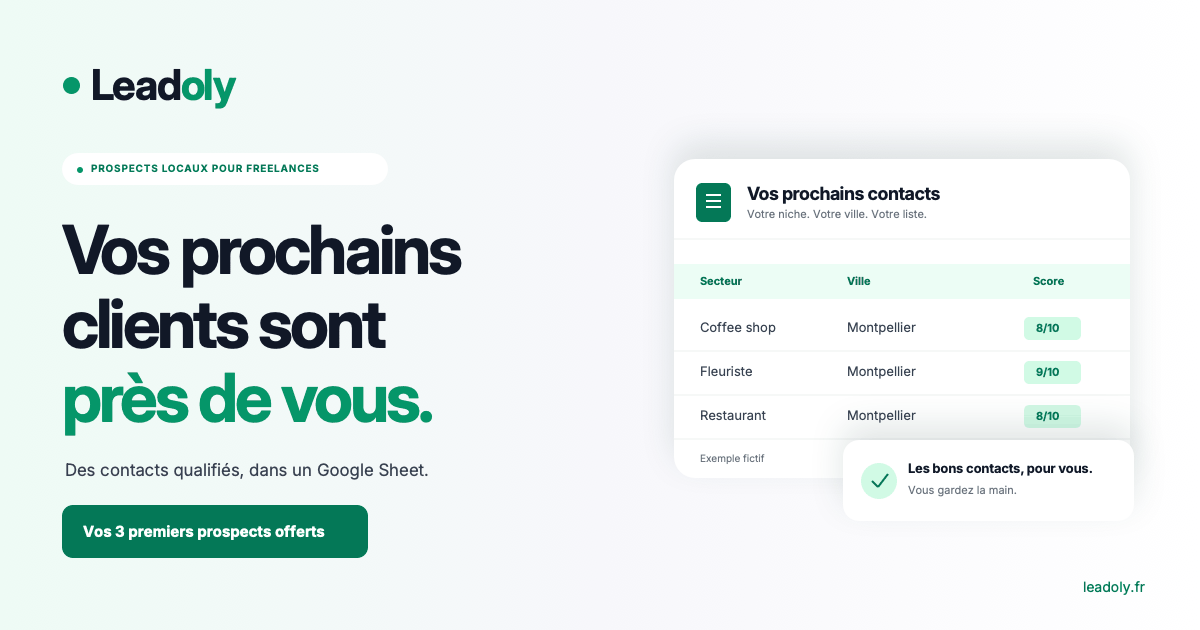
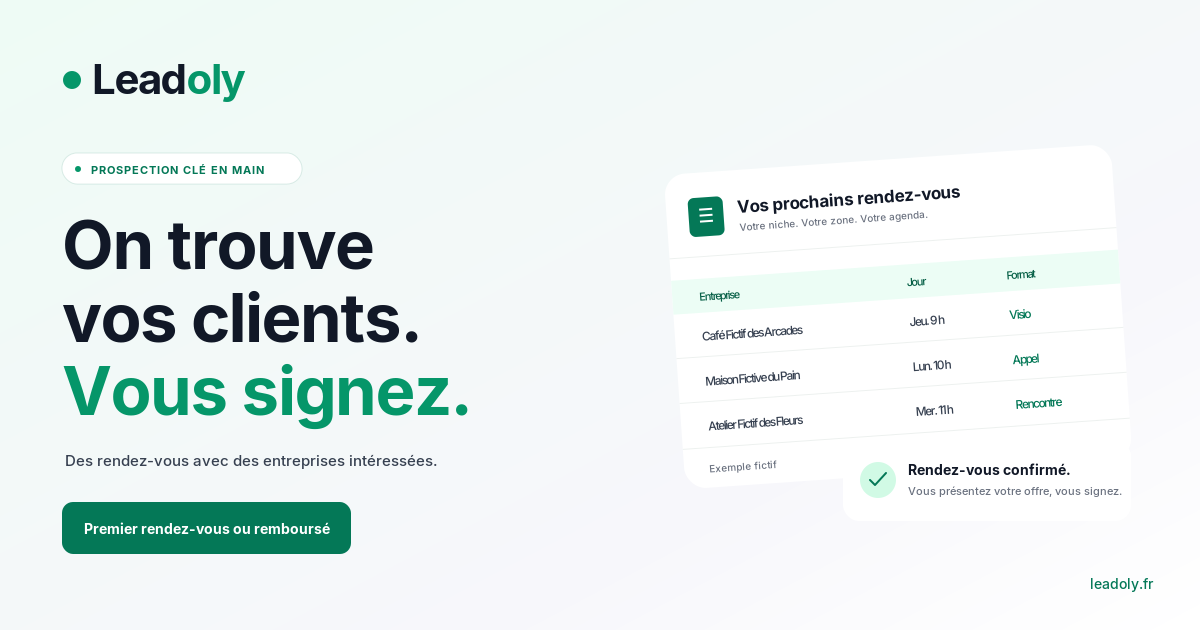
Recentrage sur la prospection clé en main : nav, OG, phrases

diff --git a/index.html b/index.html
@@ -26,12 +26,12 @@
   <meta property="og:image:width" content="1200">
   <meta property="og:image:height" content="630">
   <meta property="og:image:type" content="image/png">
-  <meta property="og:image:alt" content="Leadoly. Vos prochains clients sont près de vous. Des prospects locaux, qualifiés et livrés dans un Google Sheet.">
+  <meta property="og:image:alt" content="Leadoly. On trouve vos clients, vous signez. Des rendez-vous avec des entreprises intéressées.">
   <meta name="twitter:card" content="summary_large_image">
   <meta name="twitter:title" content="Leadoly — On trouve vos clients, vous signez">
   <meta name="twitter:description" content="Freelances et coachs : Leadoly contacte les entreprises de votre niche et vous obtient des rendez-vous. Premier rendez-vous ou remboursé.">
   <meta name="twitter:image" content="https://leadoly.fr/assets/og-image.png">
-  <meta name="twitter:image:alt" content="Leadoly. Vos prochains clients sont près de vous.">
+  <meta name="twitter:image:alt" content="Leadoly. On trouve vos clients, vous signez.">
   <script type="application/ld+json">
 {
   "@context": "https://schema.org",
@@ -52,7 +52,7 @@
       },
       "image": "https://leadoly.fr/assets/og-image.png",
       "email": "sebastien.kothe.pro@gmail.com",
-      "slogan": "Les bons contacts, près de vous.",
+      "slogan": "On trouve vos clients, vous signez.",
       "description": "Leadoly cherche des clients pour les freelances et les coachs : nous contactons les entreprises de leur niche et leur obtenons des rendez-vous. Ils n’ont plus qu’à présenter leur offre et signer. En option, des listes exclusives de prospects locaux qualifiés.",
       "areaServed": {
         "@type": "Country",
@@ -197,11 +197,11 @@
   <header class="site-header">
     <div class="header-inner container">
       <a class="brand" href="#accueil" aria-label="Leadoly, accueil"><span class="brand-dot" aria-hidden="true"></span><span>Lead<span class="brand-accent">oly</span></span></a>
-      <nav class="desktop-nav" aria-label="Navigation principale"><a href="#premium">Clé en main</a><a href="#fiche">Les listes</a><a href="#pour-qui">Pour qui</a><a href="#comment">Comment ça marche</a><a href="#engagements">Nos engagements</a><a href="#faq">FAQ</a><a href="#contact-premium">Contact</a></nav>
+      <nav class="desktop-nav" aria-label="Navigation principale"><a href="#premium">Clé en main</a><a href="#premium-how-title">Comment ça marche</a><a href="#premium-guarantee-title">Garantie</a><a href="#faq">FAQ</a><a href="#contact-premium">Contact</a></nav>
       <a class="button button-small header-cta" href="#contact-premium">Trouver des clients<svg class="icon" aria-hidden="true"><use href="#i-arrow"/></svg></a>
       <button class="menu-toggle" type="button" aria-label="Ouvrir le menu" aria-controls="mobile-menu" aria-expanded="false" hidden><span></span><span></span></button>
     </div>
-    <nav class="mobile-menu container" id="mobile-menu" aria-label="Navigation mobile"><a href="#premium">Prospection clé en main<svg class="icon" aria-hidden="true"><use href="#i-arrow"/></svg></a><a href="#fiche">Les listes<svg class="icon" aria-hidden="true"><use href="#i-arrow"/></svg></a><a href="#pour-qui">Pour qui<svg class="icon" aria-hidden="true"><use href="#i-arrow"/></svg></a><a href="#comment">Comment ça marche<svg class="icon" aria-hidden="true"><use href="#i-arrow"/></svg></a><a href="#engagements">Nos engagements<svg class="icon" aria-hidden="true"><use href="#i-arrow"/></svg></a><a href="#faq">FAQ<svg class="icon" aria-hidden="true"><use href="#i-arrow"/></svg></a><a href="#contact-premium">Contact<svg class="icon" aria-hidden="true"><use href="#i-arrow"/></svg></a><a class="button" href="#contact-premium">Trouver des clients</a></nav>
+    <nav class="mobile-menu container" id="mobile-menu" aria-label="Navigation mobile"><a href="#premium">Prospection clé en main<svg class="icon" aria-hidden="true"><use href="#i-arrow"/></svg></a><a href="#premium-how-title">Comment ça marche<svg class="icon" aria-hidden="true"><use href="#i-arrow"/></svg></a><a href="#premium-guarantee-title">Garantie<svg class="icon" aria-hidden="true"><use href="#i-arrow"/></svg></a><a href="#faq">FAQ<svg class="icon" aria-hidden="true"><use href="#i-arrow"/></svg></a><a href="#contact-premium">Contact<svg class="icon" aria-hidden="true"><use href="#i-arrow"/></svg></a><a class="button" href="#contact-premium">Trouver des clients</a></nav>
   </header>
   <main id="contenu" tabindex="-1">
     <section class="hero" id="accueil" aria-labelledby="hero-title">
@@ -210,7 +210,7 @@
         <div class="hero-copy">
           <p class="eyebrow pill"><span class="status-dot" aria-hidden="true"></span>PROSPECTION CLÉ EN MAIN</p>
           <h1 id="hero-title">Vous cherchez <br> des clients ? <br> <span>On s’en charge.</span></h1>
-          <p class="hero-description">Leadoly cherche vraiment des clients pour vous. Nous contactons les entreprises de votre niche et de votre zone, et nous vous obtenons <strong>des rendez-vous avec celles qui sont intéressées</strong>. Vous présentez votre offre et vous signez.</p>
+          <p class="hero-description">Leadoly cherche des clients pour vous. Nous contactons les entreprises de votre niche et de votre zone, et nous vous obtenons <strong>des rendez-vous avec celles qui sont intéressées</strong>. Vous présentez votre offre et vous signez.</p>
           <p class="hero-audience">Pour les freelances et les coachs <br class="desktop-break"> qui cherchent des clients.</p>
           <div class="hero-actions"><a class="button" href="#premium">Découvrir la prospection clé en main<svg class="icon" aria-hidden="true"><use href="#i-arrow"/></svg></a></div>
           <p class="hero-note"><svg class="icon" aria-hidden="true"><use href="#i-clock"/></svg>Vous gardez la négociation et la signature.</p>
@@ -260,7 +260,7 @@
           <div class="premium-copy reveal">
             <p class="eyebrow"><span class="status-dot" aria-hidden="true"></span>PROSPECTION CLÉ EN MAIN · NOTRE OFFRE PRINCIPALE</p>
             <h2 id="premium-title">On cherche vos clients. <br> <span>Vous signez.</span></h2>
-            <p class="premium-lead">Vous cherchez des clients ? On peut vous en trouver. Leadoly ne vous livre pas un fichier de plus : nous écrivons aux entreprises de votre niche, nous relançons, nous répondons à leurs questions et nous vous obtenons des rendez-vous avec celles qui sont intéressées.</p>
+            <p class="premium-lead">Vous cherchez des clients ? On peut vous en trouver. Nous écrivons aux entreprises de votre niche, nous relançons, nous répondons à leurs questions et nous vous obtenons des rendez-vous avec celles qui sont intéressées.</p>
             <ul class="premium-results">
               <li><span class="premium-result-icon"><svg class="icon" aria-hidden="true"><use href="#i-contact"/></svg></span><span><b>Des rendez-vous, pas une liste</b><small>Chaque rendez-vous calé vous arrive avec la fiche de l’entreprise.</small></span></li>
               <li><span class="premium-result-icon"><svg class="icon" aria-hidden="true"><use href="#i-clock"/></svg></span><span><b>Du temps rendu à votre métier</b><small>Plus de soirées à chercher des contacts et à relancer.</small></span></li>
@@ -308,7 +308,7 @@
           <aside class="premium-cta reveal" id="contact-premium" aria-labelledby="premium-cta-title">
             <p class="premium-cta-eyebrow">Tarif sur demande</p>
             <h3 id="premium-cta-title">Parlons de vos futurs clients.</h3>
-            <p>Dites-nous votre métier, vos clients idéaux et votre zone. Le tarif, adapté à votre projet, vous est détaillé par écrit avant tout engagement. Pour bien faire le travail, Leadoly accompagne peu de freelances à la fois.</p>
+            <p>Dites-nous votre métier, vos clients idéaux et votre zone. Le tarif, adapté à votre projet, vous est détaillé par écrit avant tout engagement.</p>
             <a class="button premium-cta-button" href="mailto:sebastien.kothe.pro@gmail.com?subject=Prospection%20cl%C3%A9%20en%20main%20Leadoly&amp;body=Bonjour%20S%C3%A9bastien%2C%0D%0A%0D%0AJe%20cherche%20des%20clients.%0D%0AMon%20m%C3%A9tier%20%3A%20%0D%0AMes%20clients%20id%C3%A9aux%20%3A%20%0D%0AMa%20zone%20%3A%20%0D%0A">Parler de mes futurs clients<svg class="icon" aria-hidden="true"><use href="#i-arrow"/></svg></a>
             <p class="premium-cta-mail">Ou écrivez à <a href="mailto:sebastien.kothe.pro@gmail.com">sebastien.kothe.pro@gmail.com</a></p>
             <p class="premium-honest"><svg class="icon" aria-hidden="true"><use href="#i-shield"/></svg><span>Premier rendez-vous ou remboursé, sur la première vague.</span></p>
@@ -345,7 +345,7 @@
     </section>
     <section class="audience-section section-pad" id="pour-qui" aria-labelledby="audience-title">
       <div class="container">
-        <div class="section-heading reveal"><div><p class="eyebrow"><span class="status-dot" aria-hidden="true"></span>POUR QUI</p><h2 id="audience-title">Votre métier. <br><span>Les bons prospects.</span></h2></div><p>Des commerces près de vous. <br>Un besoin auquel votre talent répond.</p></div>
+        <div class="section-heading reveal"><div><p class="eyebrow"><span class="status-dot" aria-hidden="true"></span>POUR QUI</p><h2 id="audience-title">Votre métier. <br><span>Les bons prospects.</span></h2></div><p>Un besoin auquel votre talent répond.</p></div>
         <div class="audience-grid">
           <article class="audience-card reveal"><span class="audience-icon"><svg class="icon" aria-hidden="true"><use href="#i-activity"/></svg></span><h3>Community manager</h3><p>Des commerces peu actifs sur les réseaux, avec une présence sociale à développer.</p><span class="audience-examples">Restaurants · boutiques · salons</span></article>
           <article class="audience-card reveal"><span class="audience-icon"><svg class="icon" aria-hidden="true"><use href="#i-globe"/></svg></span><h3>Web designer</h3><p>Des TPE sans site ou avec un site daté, qui gagneraient à soigner leur vitrine en ligne.</p><span class="audience-examples">Commerces · artisans · TPE</span></article>
@@ -377,10 +377,10 @@
         </div>
       </div>
     </section>
-    <section class="sample-section section-pad" id="echantillon" aria-labelledby="sample-title"><div class="container sample-layout"><div class="sample-copy reveal"><p class="eyebrow"><span class="status-dot" aria-hidden="true"></span>VOS PROCHAINS CONTACTS COMMENCENT ICI</p><h2 id="sample-title">Recevez <span class="sample-three">3 prospects</span> de votre niche, <br> <span>gratuitement.</span></h2><p class="section-lead">Dites-nous qui vous cherchez et où. <br> On s’occupe de trouver les premiers contacts.</p><div class="sample-details"><p><span class="detail-icon"><svg class="icon" aria-hidden="true"><use href="#i-clock"/></svg></span><span><b>Sous 48 h</b><small>Votre sélection arrive par e-mail.</small></span></p><p><span class="detail-icon"><svg class="icon" aria-hidden="true"><use href="#i-sheet"/></svg></span><span><b>Du concret, dans un Google Sheet</b><small>Des fiches enrichies, prêtes à explorer.</small></span></p><p><span class="detail-icon"><svg class="icon" aria-hidden="true"><use href="#i-cursor"/></svg></span><span><b>Vous décidez de la suite</b><small>Découvrez les fiches avant de commander.</small></span></p></div><div class="direct-contact"><span>Une question avant de commencer ?</span><a href="mailto:sebastien.kothe.pro@gmail.com">sebastien.kothe.pro@gmail.com<svg class="icon" aria-hidden="true"><use href="#i-arrow"/></svg></a></div></div>
+    <section class="sample-section section-pad" id="echantillon" aria-labelledby="sample-title"><div class="container sample-layout"><div class="sample-copy reveal"><p class="eyebrow"><span class="status-dot" aria-hidden="true"></span>ESSAI GRATUIT AVANT LA PROSPECTION CLÉ EN MAIN</p><h2 id="sample-title">Recevez <span class="sample-three">3 prospects</span> de votre niche, <br> <span>gratuitement.</span></h2><p class="section-lead">Dites-nous qui vous cherchez et où. <br> On s’occupe de trouver les premiers contacts.</p><div class="sample-details"><p><span class="detail-icon"><svg class="icon" aria-hidden="true"><use href="#i-clock"/></svg></span><span><b>Sous 48 h</b><small>Votre sélection arrive par e-mail.</small></span></p><p><span class="detail-icon"><svg class="icon" aria-hidden="true"><use href="#i-sheet"/></svg></span><span><b>Du concret, dans un Google Sheet</b><small>Des fiches enrichies, prêtes à explorer.</small></span></p><p><span class="detail-icon"><svg class="icon" aria-hidden="true"><use href="#i-cursor"/></svg></span><span><b>Vous décidez de la suite</b><small>Jugez la qualité avant de lancer la prospection.</small></span></p></div><div class="direct-contact"><span>Une question avant de commencer ?</span><a href="mailto:sebastien.kothe.pro@gmail.com">sebastien.kothe.pro@gmail.com<svg class="icon" aria-hidden="true"><use href="#i-arrow"/></svg></a></div></div>
       <form class="sample-form reveal" id="sample-form" action="mailto:sebastien.kothe.pro@gmail.com" method="post" enctype="text/plain" aria-labelledby="form-title"><div class="form-heading"><span class="form-icon"><svg class="icon" aria-hidden="true"><use href="#i-spark"/></svg></span><div><h3 id="form-title">Parlons de votre recherche.</h3><p>Tous les champs sont nécessaires.</p></div></div><div class="form-fields"><div class="form-row"><div class="form-field"><label for="first-name">Prénom</label><input id="first-name" name="Prénom" autocomplete="given-name" required maxlength="80" placeholder="Votre prénom" aria-describedby="first-name-error"><span class="field-error" id="first-name-error"></span></div><div class="form-field"><label for="email">E-mail professionnel</label><input id="email" name="E-mail" type="email" autocomplete="email" required maxlength="254" placeholder="vous@exemple.fr" aria-describedby="email-error"><span class="field-error" id="email-error"></span></div></div><div class="form-field"><label for="profession">Votre métier</label><div class="select-wrap"><select id="profession" name="Métier" autocomplete="organization-title" required aria-describedby="profession-error"><option value="" disabled selected>Sélectionnez votre métier</option><option>Community manager</option><option>Web designer</option><option>Photographe</option><option>Vidéaste</option><option>Autre</option></select><svg viewBox="0 0 24 24" class="icon" aria-hidden="true"><path d="m7 9 5 5 5-5"/></svg></div><span class="field-error" id="profession-error"></span></div><div class="form-field"><label for="niche">Les commerces que vous ciblez</label><input id="niche" name="Niche" autocomplete="off" required maxlength="160" placeholder="Ex. : restaurants, coiffeurs, fleuristes…" aria-describedby="niche-error"><span class="field-error" id="niche-error"></span></div><div class="form-field"><label for="city">Votre ville de prospection</label><input id="city" name="Ville" autocomplete="address-level2" required maxlength="120" placeholder="Ex. : Montpellier" aria-describedby="city-error"><span class="field-error" id="city-error"></span></div></div><button class="button form-submit" type="submit">Recevoir mes 3 prospects gratuits<svg class="icon" aria-hidden="true"><use href="#i-arrow"/></svg></button><p class="form-note"><svg class="icon" aria-hidden="true"><use href="#i-lock"/></svg><span>Votre messagerie s’ouvre avec la demande pré-remplie. Vos informations ne servent qu’à vous répondre.</span></p><p id="form-status" class="form-status" role="status" aria-live="polite"></p><a class="mailto-fallback" id="mailto-fallback" href="mailto:sebastien.kothe.pro@gmail.com" hidden>Ouvrir à nouveau ma messagerie<svg class="icon" aria-hidden="true"><use href="#i-arrow"/></svg></a></form>
     </div></section>
   </main>
-  <footer class="site-footer"><div class="container"><div class="footer-top"><div><a class="brand" href="#accueil" aria-label="Leadoly, retour à l’accueil"><span class="brand-dot" aria-hidden="true"></span><span>Lead<span class="brand-accent">oly</span></span></a><p>Les bons contacts. La relation vous appartient.</p></div><a class="back-top" href="#accueil">Retour en haut<svg class="icon" aria-hidden="true"><use href="#i-arrow"/></svg></a></div><div class="footer-bottom"><span>© 2026 Leadoly</span><a href="mailto:sebastien.kothe.pro@gmail.com">sebastien.kothe.pro@gmail.com</a><a href="#mentions" id="legal-link">Mentions légales</a><span class="footer-privacy"><span class="status-dot" aria-hidden="true"></span>Sans cookies. Tout simplement.</span></div><section class="legal-section" id="mentions" aria-labelledby="legal-title"><div class="legal-heading"><h2 id="legal-title" tabindex="-1">Mentions légales</h2><button type="button" class="legal-close" hidden aria-label="Fermer les mentions légales">Fermer <span aria-hidden="true">×</span></button></div><p>Éditeur : Sébastien Kothé, entrepreneur individuel (Leadoly). SIREN : 810 034 686. Adresse : 2 Avenue Del Bosch, 66130 Ille-sur-Têt, France. Contact : <a href="mailto:sebastien.kothe.pro@gmail.com">sebastien.kothe.pro@gmail.com</a>.</p><p>Directeur de la publication : Sébastien Kothé.</p><p>Hébergeur : GitHub, Inc. (service GitHub Pages), 88 Colin P. Kelly Jr. Street, San Francisco, CA 94107, États-Unis.</p><p>Données personnelles : ce site ne dépose aucun cookie. La mesure d’audience est assurée par GoatCounter, de façon anonyme, sans cookie et sans collecte de donnée personnelle ; les statistiques sont hébergées par GoatCounter (goatcounter.com). Les informations saisies dans le formulaire ne sont transmises que par votre propre messagerie ; elles servent uniquement à répondre à votre demande. Responsable du traitement : Sébastien Kothé. Vous pouvez exercer vos droits d’accès, de rectification et d’effacement en écrivant à <a href="mailto:sebastien.kothe.pro@gmail.com">sebastien.kothe.pro@gmail.com</a> et adresser une réclamation à la CNIL. Police Inter (<a href="assets/fonts/OFL.txt">SIL Open Font License</a>).</p></section></div></footer>
+  <footer class="site-footer"><div class="container"><div class="footer-top"><div><a class="brand" href="#accueil" aria-label="Leadoly, retour à l’accueil"><span class="brand-dot" aria-hidden="true"></span><span>Lead<span class="brand-accent">oly</span></span></a><p>On trouve vos clients. Vous signez.</p></div><a class="back-top" href="#accueil">Retour en haut<svg class="icon" aria-hidden="true"><use href="#i-arrow"/></svg></a></div><div class="footer-bottom"><span>© 2026 Leadoly</span><a href="mailto:sebastien.kothe.pro@gmail.com">sebastien.kothe.pro@gmail.com</a><a href="#mentions" id="legal-link">Mentions légales</a><span class="footer-privacy"><span class="status-dot" aria-hidden="true"></span>Sans cookies.</span></div><section class="legal-section" id="mentions" aria-labelledby="legal-title"><div class="legal-heading"><h2 id="legal-title" tabindex="-1">Mentions légales</h2><button type="button" class="legal-close" hidden aria-label="Fermer les mentions légales">Fermer <span aria-hidden="true">×</span></button></div><p>Éditeur : Sébastien Kothé, entrepreneur individuel (Leadoly). SIREN : 810 034 686. Adresse : 2 Avenue Del Bosch, 66130 Ille-sur-Têt, France. Contact : <a href="mailto:sebastien.kothe.pro@gmail.com">sebastien.kothe.pro@gmail.com</a>.</p><p>Directeur de la publication : Sébastien Kothé.</p><p>Hébergeur : GitHub, Inc. (service GitHub Pages), 88 Colin P. Kelly Jr. Street, San Francisco, CA 94107, États-Unis.</p><p>Données personnelles : ce site ne dépose aucun cookie. La mesure d’audience est assurée par GoatCounter, de façon anonyme, sans cookie et sans collecte de donnée personnelle ; les statistiques sont hébergées par GoatCounter (goatcounter.com). Les informations saisies dans le formulaire ne sont transmises que par votre propre messagerie ; elles servent uniquement à répondre à votre demande. Responsable du traitement : Sébastien Kothé. Vous pouvez exercer vos droits d’accès, de rectification et d’effacement en écrivant à <a href="mailto:sebastien.kothe.pro@gmail.com">sebastien.kothe.pro@gmail.com</a> et adresser une réclamation à la CNIL. Police Inter (<a href="assets/fonts/OFL.txt">SIL Open Font License</a>).</p></section></div></footer>
 </body>
 </html>
